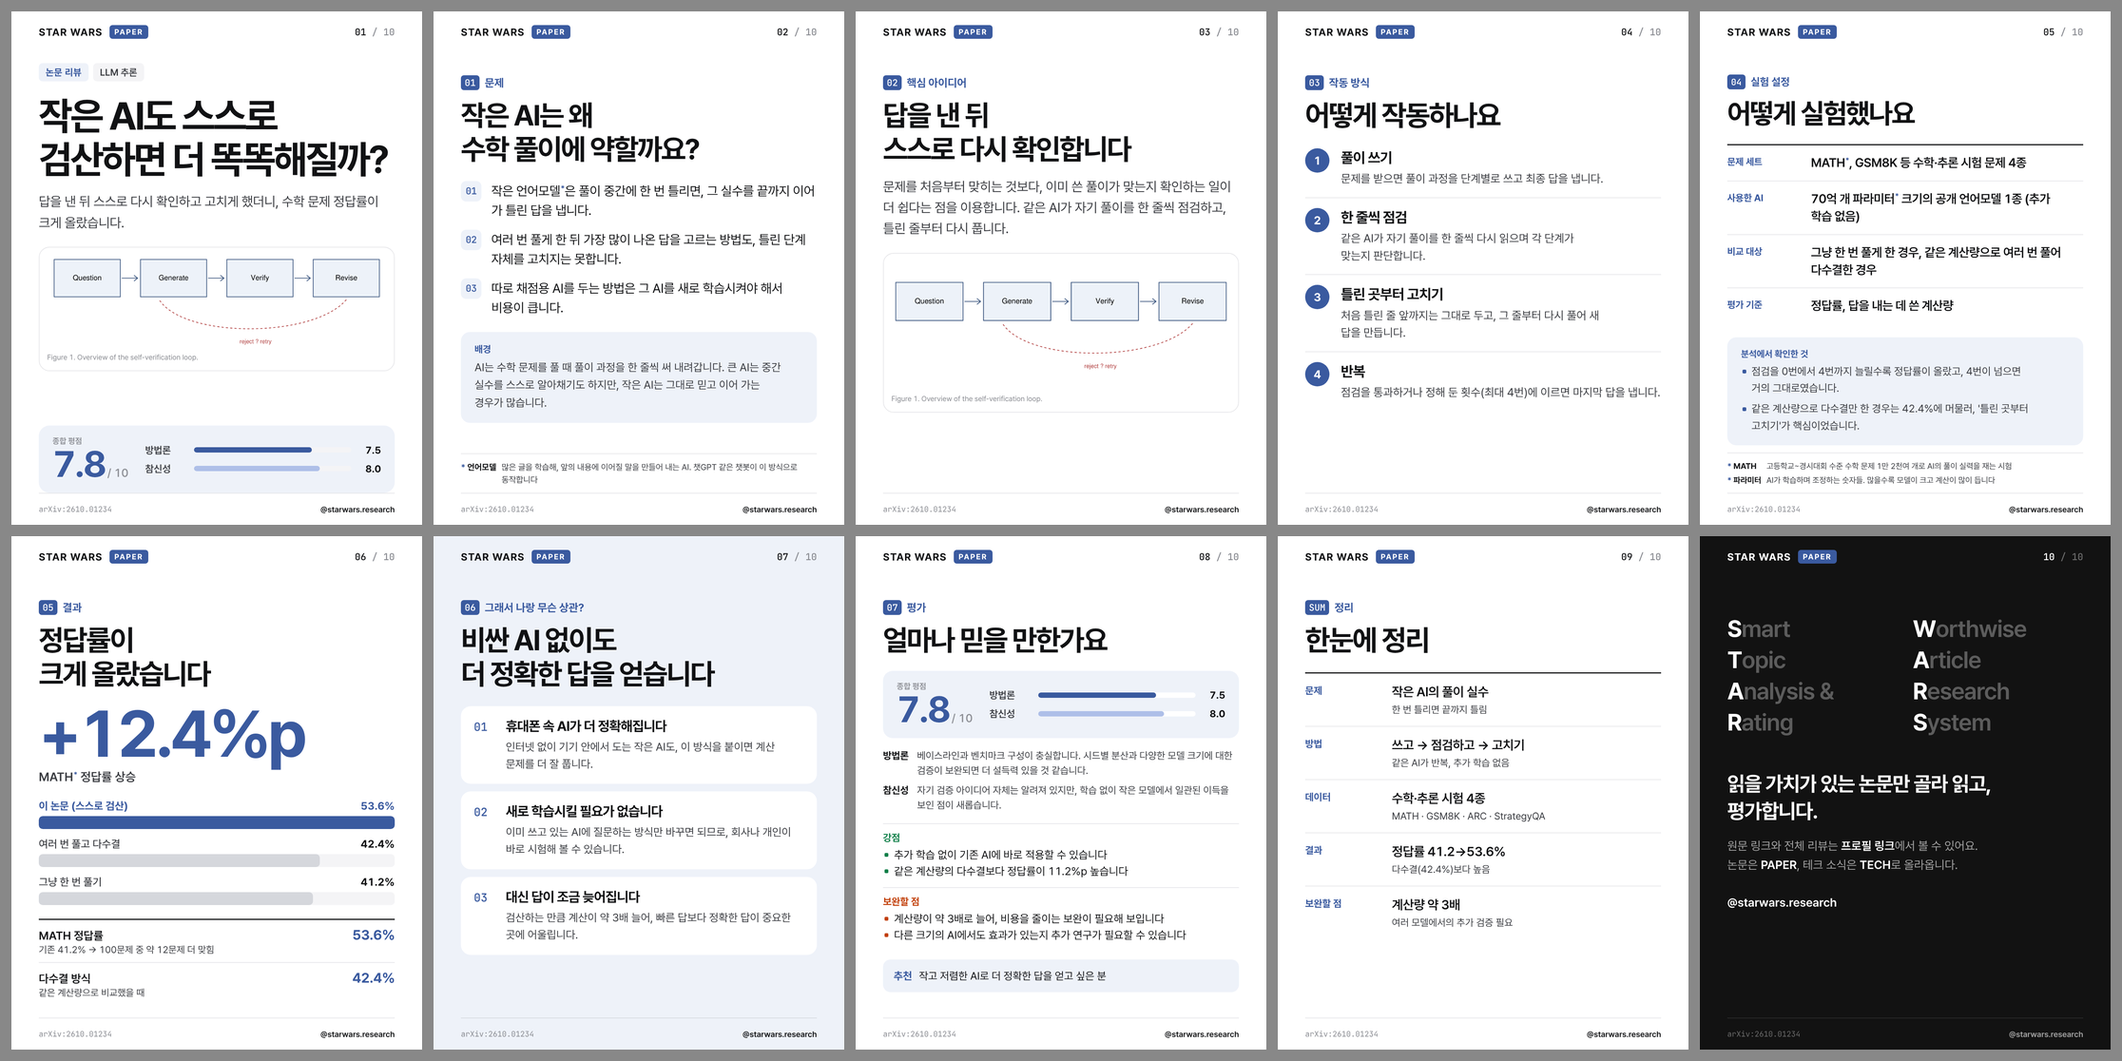
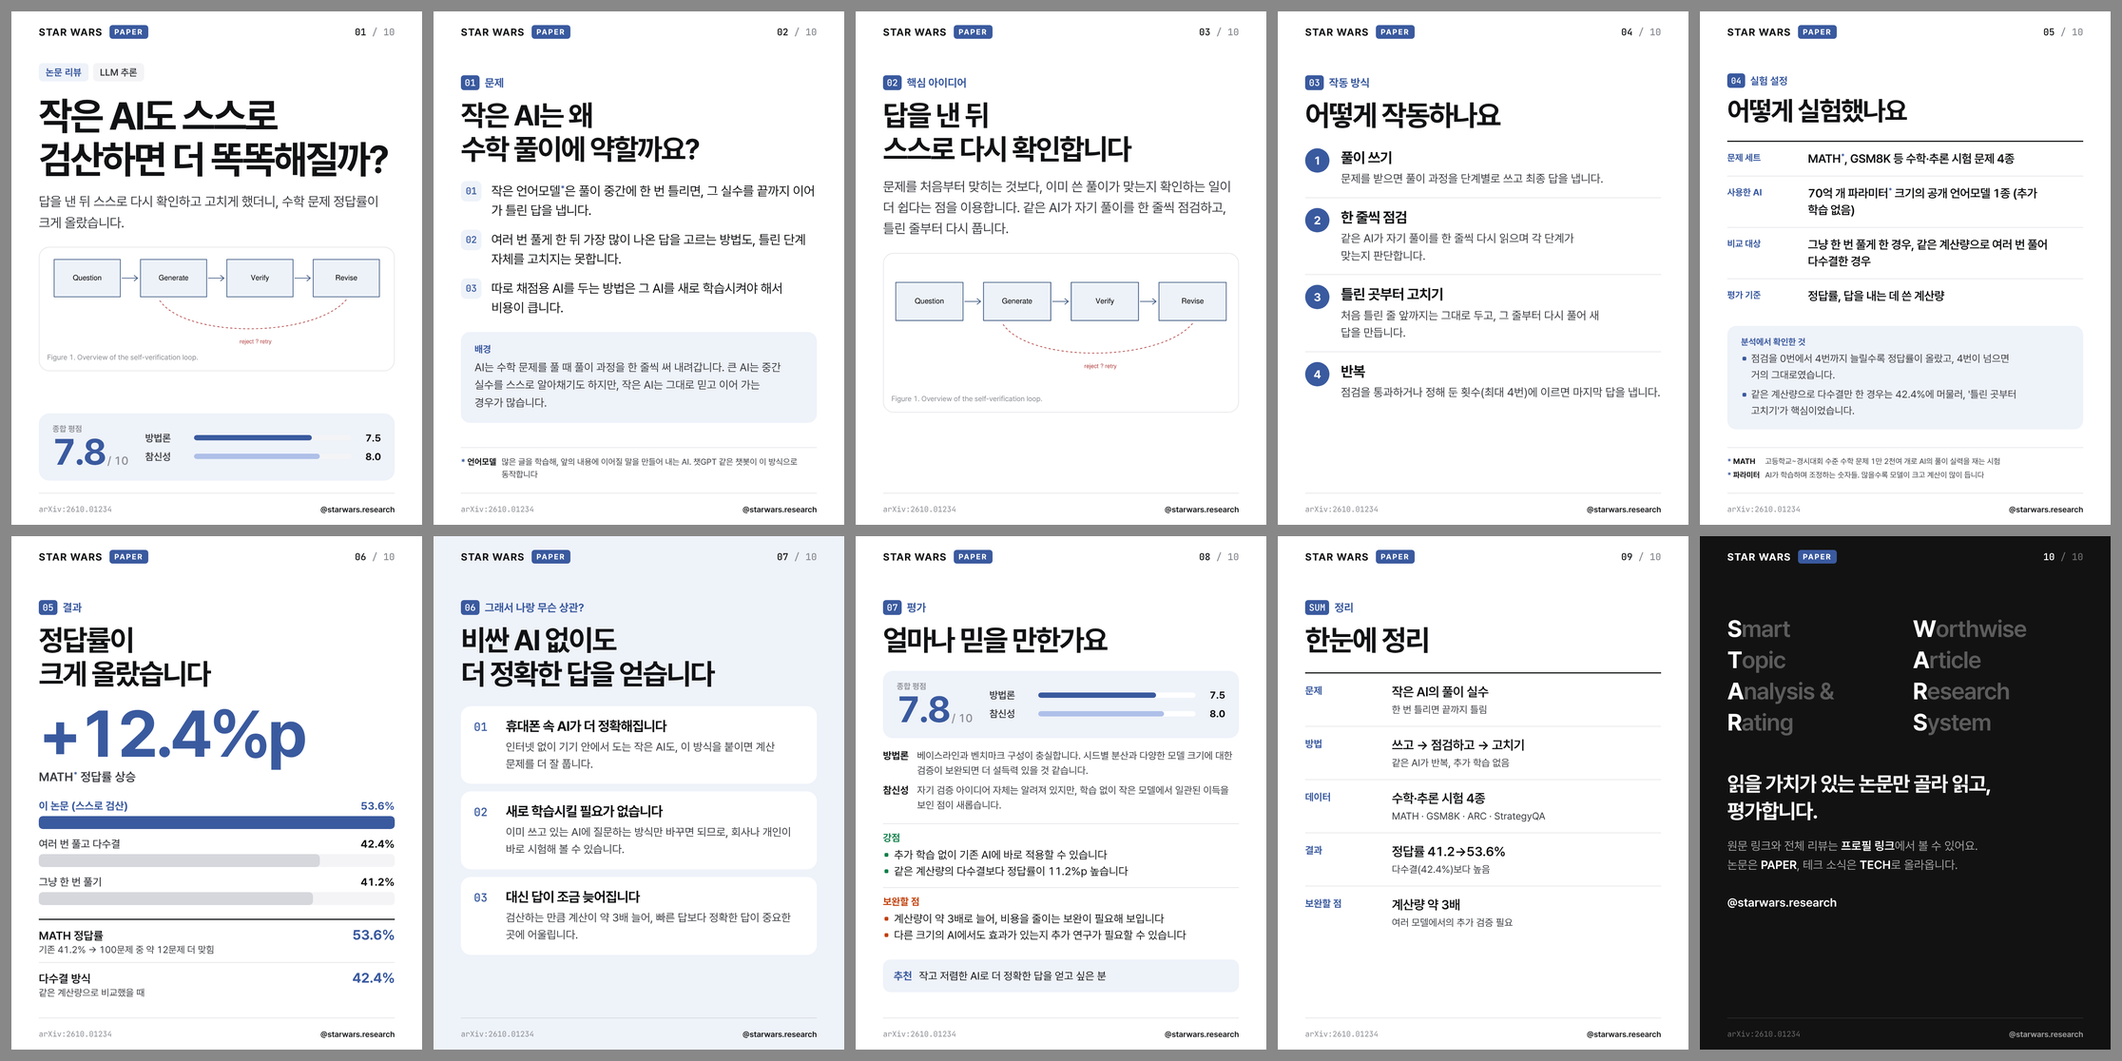
Cards keep clear of the bottom line and above the notes; closing video unfolds STAR WARS; full-screen card viewer
Claude-Session: https://claude.ai/code/session_012bj7GXVabYbePdzsSxXok8

Changed region(s): [[0.8038, 0.0609, 0.9892, 0.457], [0.0309, 0.3961, 0.1546, 0.457], [0.2164, 0.4265, 0.371, 0.457]]

diff --git a/paperagent/templates/cards/cards.html b/paperagent/templates/cards/cards.html
@@ -47,7 +47,8 @@ p, li, .v b, .v span, .item, .note { text-wrap: pretty; }
 .pg { font-family: "Mono", monospace; font-size: 25px; font-weight: 500; color: var(--ink); }
 .pg i { font-style: normal; color: var(--mute); }
 
-.main { position: relative; flex: 1; min-height: 0; display: flex; flex-direction: column; overflow: hidden; padding: calc(60px * var(--k)) 72px 0; }
+/* the bottom padding keeps every block clear of the line above the source and account */
+.main { position: relative; flex: 1; min-height: 0; display: flex; flex-direction: column; overflow: hidden; padding: calc(60px * var(--k)) 72px 32px; }
 .bottom { flex: none; height: 84px; margin: 0 72px; border-top: 2px solid var(--line); display: flex; align-items: center; justify-content: space-between;
           font-size: 21px; color: var(--mute); }
 .bottom .id { font-family: "Mono", monospace; font-size: 20px; }
@@ -201,7 +202,7 @@ h2 { flex: none; margin-top: calc(22px * var(--k)); font-size: calc(76px * var(-
 
 /* explained words: a raised * in the text, the meaning at the bottom of the slide */
 .star { font-size: .6em; vertical-align: .6em; line-height: 0; margin-left: 1px; color: var(--c); font-weight: 700; }
-.foot { flex: none; margin-top: auto; padding: calc(18px * var(--k)) 0; border-top: 2px solid var(--line); display: grid;
+.foot { flex: none; margin-top: auto; padding: 20px 0 0; border-top: 2px solid var(--line); display: grid;
         grid-template-columns: max-content minmax(0, 1fr); gap: calc(6px * var(--k)) 14px; font-size: calc(22px * var(--k)); line-height: 1.5; color: var(--body); }
 .foot b { font-weight: 700; color: var(--ink); }
 .foot b::before { content: "* "; color: var(--c); }
@@ -225,10 +226,11 @@ h2 { flex: none; margin-top: calc(22px * var(--k)); font-size: calc(76px * var(-
 /* the closing slide as a video: masked rises with a soft, fast-out ease */
 .m { display: inline-block; overflow: hidden; vertical-align: top; padding-bottom: .12em; margin-bottom: -.12em; }
 .m > b, .m > i { display: inline-block; font-style: normal; }
-.acro .m > i { font-weight: 600; }
+.unfold { display: inline-block; }
+.play .unfold { animation: unfold 1s cubic-bezier(.16, 1, .3, 1) both; animation-delay: calc(var(--d) * 1s); }
+@keyframes unfold { from { clip-path: inset(0 100% 0 0); transform: translateX(-18px); opacity: .2; } to { clip-path: inset(0 0 0 0); transform: none; opacity: 1; } }
 .play .m > b, .play .m > i { animation: rise .95s cubic-bezier(.16, 1, .3, 1) both; animation-delay: calc(var(--d) * 1s); }
 .play .fade { animation: fade-up 1s cubic-bezier(.16, 1, .3, 1) both; animation-delay: calc(var(--d) * 1s); }
-.play .band, .play .bottom { animation: fade-in .8s ease both; }
 @keyframes rise { from { transform: translateY(110%); } to { transform: none; } }
 @keyframes fade-up { from { opacity: 0; transform: translateY(26px); } to { opacity: 1; transform: none; } }
 @keyframes fade-in { from { opacity: 0; } }
@@ -238,9 +240,10 @@ h2 { flex: none; margin-top: calc(22px * var(--k)); font-size: calc(76px * var(-
 .mask-mode [data-window] { visibility: visible !important; background: #fff !important; }
 .mask-mode [data-window] * { visibility: hidden !important; }
 
-/* while measuring, figures are out and the notes sit right under the text */
+/* while measuring, figures are out and the notes/score sit at their minimum distance
+   under the text, so the fitted slide always keeps that much space above them */
 .measuring .figure { display: none; }
-.measuring .foot, .measuring .stat { margin-top: 0; }
+.measuring .foot, .measuring .stat { margin-top: 32px; }
 </style>
 </head>
 <body>
@@ -398,13 +401,14 @@ h2 { flex: none; margin-top: calc(22px * var(--k)); font-size: calc(76px * var(-
 </section>
 
 {% elif s.kind == 'outro' %}
-{# Still on the PNG; as the MP4 (.play) every word rises out of a mask in turn, then the lines below fade up. --d is each piece's start (s). #}
+{# Still on the PNG. As the MP4 (.play): S T A R W A R S stand from the first frame, the rest of each word unfolds
+   out of its letter in turn, then the claim's words rise and the lines below fade up. --d is each piece's start (s). #}
 {% set lines = theme.claim.split('\n') %}
-{% set ns = namespace(d=1.45) %}
+{% set ns = namespace(d=1.95) %}
 <section class="slide outro" data-video="outro">
   {{ band(n) }}
   <div class="acro">
-    {% for initial, rest in acronym %}<div style="grid-column: {{ 1 if loop.index <= 4 else 2 }}; grid-row: {{ loop.index if loop.index <= 4 else loop.index - 4 }}"><span class="m"><b style="--d: {{ '%.2f' % (0.2 + loop.index0 * 0.07) }}">{{ initial }}</b></span><span class="m"><i style="--d: {{ '%.2f' % (0.62 + loop.index0 * 0.07) }}">{{ rest }}</i></span></div>{% endfor %}
+    {% for initial, rest in acronym %}<div style="grid-column: {{ 1 if loop.index <= 4 else 2 }}; grid-row: {{ loop.index if loop.index <= 4 else loop.index - 4 }}"><b>{{ initial }}</b><span class="unfold" style="--d: {{ '%.2f' % (0.35 + loop.index0 * 0.16) }}">{{ rest }}</span></div>{% endfor %}
   </div>
   <p class="claim">{% for line in lines %}{% for w in line.split() %}<span class="m"><i style="--d: {{ '%.2f' % ns.d }}">{{ w }}</i></span>{% set ns.d = ns.d + 0.07 %}{% if not loop.last %} {% endif %}{% endfor %}{% if not loop.last %}<br>{% endif %}{% set ns.d = ns.d + 0.12 %}{% endfor %}</p>
   <p class="cta fade" style="--d: {{ '%.2f' % (ns.d + 0.2) }}">원문 링크와 전체 리뷰는 <b>프로필 링크</b>에서 볼 수 있어요.<br>논문은 <em>PAPER</em>, 테크 소식은 <em>TECH</em>로 올라옵니다.</p>
@@ -425,7 +429,8 @@ function fit(slide) {
   if (!main) return;
   const setK = (k) => slide.style.setProperty("--k", k);
   const bottom = () => Math.max(0, ...[...main.children].map((c) => c.offsetTop + c.offsetHeight));
-  const room = () => main.clientHeight - bottom();
+  const pad = parseFloat(getComputedStyle(main).paddingBottom) || 0;
+  const room = () => main.clientHeight - pad - bottom();
   slide.classList.add("measuring");
   let k = 1;
   setK(k);
@@ -439,8 +444,7 @@ function fit(slide) {
     while (room() - gap() < need && kk > Math.max(0.74, k - 0.16)) { kk = +(kk - 0.02).toFixed(2); setK(kk); }
     // keep clear space between the figure and what follows it (the score
     // box or the footnotes), so the two never touch or overlap
-    const after = f.nextElementSibling && f.nextElementSibling.offsetParent !== null ? 28 * kk : 0;
-    const avail = room() - gap() - after;
+    const avail = room() - gap();
     if (avail >= need) {
       slide.classList.remove("measuring");
       const img = f.querySelector("img");
@@ -465,11 +469,11 @@ function fit(slide) {
 function guard(slide, main) {
   const f = slide.querySelector(".figure");
   if (!f) return;
-  const k = +getComputedStyle(slide).getPropertyValue("--k") || 1;
   const next = f.nextElementSibling;
   const fb = f.getBoundingClientRect().bottom;
-  const limit = next ? next.getBoundingClientRect().top - 24 * k : main.getBoundingClientRect().bottom;
-  const overflow = Math.max(0, ...[...main.children].map((c) => c.offsetTop + c.offsetHeight)) - main.clientHeight;
+  const pad = parseFloat(getComputedStyle(main).paddingBottom) || 0;
+  const limit = next ? next.getBoundingClientRect().top - 32 : main.getBoundingClientRect().bottom - pad;
+  const overflow = Math.max(0, ...[...main.children].map((c) => c.offsetTop + c.offsetHeight)) - (main.clientHeight - pad);
   const cut = Math.ceil(Math.max(fb - limit, overflow, 0));
   if (!cut) return;
   const h = f.offsetHeight - cut - 2;

diff --git a/paperagent/static/app.js b/paperagent/static/app.js
@@ -21,6 +21,90 @@ document.querySelectorAll("[data-carousel]").forEach((root) => {
   update();
 });
 
+// Full-screen viewer for the card news: opens from "크게 보기" or a click on a card;
+// arrows / swipe to move, Esc or the backdrop to close. The video cards play.
+(() => {
+  const carousels = document.querySelectorAll("[data-carousel]");
+  if (!carousels.length) return;
+  const box = document.createElement("div");
+  box.className = "lightbox";
+  box.hidden = true;
+  box.setAttribute("role", "dialog");
+  box.setAttribute("aria-modal", "true");
+  box.setAttribute("aria-label", "카드뉴스 크게 보기");
+  box.innerHTML = `
+    <div class="lb-top"><span class="lb-count"></span><span class="lb-sp"></span>
+      <a class="lb-dl" download>이 장 받기</a><button type="button" class="lb-x" aria-label="닫기">✕</button></div>
+    <div class="lb-stage"></div>
+    <button type="button" class="lb-btn lb-prev" aria-label="이전 장">‹</button>
+    <button type="button" class="lb-btn lb-next" aria-label="다음 장">›</button>`;
+  document.body.appendChild(box);
+  const stage = box.querySelector(".lb-stage");
+  let items = [], at = 0, track = null, lastFocus = null;
+
+  const show = (i) => {
+    at = (i + items.length) % items.length;
+    const it = items[at];
+    stage.replaceChildren();
+    let el;
+    if (it.tagName === "VIDEO") {
+      el = document.createElement("video");
+      Object.assign(el, { src: it.currentSrc || it.src, poster: it.poster, muted: true, loop: true, playsInline: true, autoplay: true });
+      el.play().catch(() => {});
+    } else {
+      el = document.createElement("img");
+      el.src = it.currentSrc || it.src;
+      el.alt = it.alt || "";
+    }
+    stage.appendChild(el);
+    box.querySelector(".lb-count").textContent = `${at + 1} / ${items.length}${it.tagName === "VIDEO" ? " · 영상" : ""}`;
+    box.querySelector(".lb-dl").href = `${(it.currentSrc || it.src).split("?")[0]}?dl=1`;
+    box.querySelector(".lb-prev").hidden = box.querySelector(".lb-next").hidden = items.length < 2;
+  };
+  const open = (root, i) => {
+    track = root.querySelector(".slides");
+    items = [...track.children];
+    lastFocus = document.activeElement;
+    box.hidden = false;
+    document.body.classList.add("lb-open");
+    show(i);
+    box.querySelector(".lb-x").focus();
+  };
+  const close = () => {
+    box.hidden = true;
+    document.body.classList.remove("lb-open");
+    stage.replaceChildren();
+    if (track) track.scrollTo({ left: at * track.clientWidth }); // the small carousel follows
+    lastFocus?.focus();
+  };
+
+  carousels.forEach((root) => {
+    const tr = root.querySelector(".slides");
+    const current = () => Math.round(tr.scrollLeft / tr.clientWidth);
+    root.querySelector("[data-zoom]")?.addEventListener("click", () => open(root, current()));
+    [...tr.children].forEach((el, i) => { el.style.cursor = "zoom-in"; el.addEventListener("click", () => open(root, i)); });
+    root.addEventListener("keydown", (e) => { if (e.key === "f" || e.key === "F") open(root, current()); });
+  });
+  box.querySelector(".lb-x").addEventListener("click", close);
+  box.querySelector(".lb-prev").addEventListener("click", () => show(at - 1));
+  box.querySelector(".lb-next").addEventListener("click", () => show(at + 1));
+  box.addEventListener("click", (e) => { if (e.target === box || e.target === stage) close(); });
+  document.addEventListener("keydown", (e) => {
+    if (box.hidden) return;
+    if (e.key === "Escape") close();
+    else if (e.key === "ArrowLeft") show(at - 1);
+    else if (e.key === "ArrowRight") show(at + 1);
+  });
+  let x0 = null;
+  stage.addEventListener("touchstart", (e) => { x0 = e.touches[0].clientX; }, { passive: true });
+  stage.addEventListener("touchend", (e) => {
+    if (x0 === null) return;
+    const dx = e.changedTouches[0].clientX - x0;
+    if (Math.abs(dx) > 40) show(at + (dx < 0 ? 1 : -1));
+    x0 = null;
+  });
+})();
+
 // Copy caption text
 document.querySelectorAll("[data-copy]").forEach((btn) => {
   btn.addEventListener("click", async () => {

diff --git a/paperagent/static/style.css b/paperagent/static/style.css
@@ -662,3 +662,32 @@ pre.cmd code { background: none; padding: 0; color: inherit; white-space: pre; f
 .meta .maker { display: inline-flex; align-items: center; gap: 5px; color: var(--ink); font-weight: 600; }
 .meta .maker .logo-mark { flex: none; }
 @media (prefers-color-scheme: dark) { .meta .maker .logo-mark path[fill="#000000"], .meta .maker .logo-mark path[fill="#111111"], .meta .maker .logo-mark path[fill="#191919"] { fill: #e6e6e6; } }
+
+/* ---------- card news: full-screen viewer ---------- */
+.carousel .zoom-btn { position: absolute; top: 10px; right: 10px; display: inline-flex; align-items: center; gap: 6px; height: 30px; padding: 0 10px;
+                      border-radius: 8px; border: 1px solid var(--line); background: rgba(255,255,255,.92); color: #171717; font: inherit;
+                      font-size: 12.5px; font-weight: 600; cursor: pointer; box-shadow: var(--shadow); }
+.carousel .zoom-btn svg { width: 14px; height: 14px; }
+.carousel .zoom-btn:hover { background: #fff; }
+body.lb-open { overflow: hidden; }
+.lightbox { position: fixed; inset: 0; z-index: 90; background: rgba(10, 10, 12, .94); display: flex; flex-direction: column; }
+.lightbox[hidden] { display: none; }
+.lb-top { flex: none; display: flex; align-items: center; gap: 14px; padding: 12px 18px; color: #e6e6e6; font-size: 14px; }
+.lb-sp { flex: 1; }
+.lb-count { font-variant-numeric: tabular-nums; font-weight: 600; }
+.lb-dl { color: #e6e6e6; font-weight: 600; padding: 6px 12px; border: 1px solid #3a3a3f; border-radius: 8px; }
+.lb-dl:hover { color: #fff; border-color: #6a6a70; }
+.lb-x { width: 36px; height: 36px; border-radius: 8px; border: 1px solid #3a3a3f; background: none; color: #e6e6e6; font-size: 15px; cursor: pointer; }
+.lb-x:hover { color: #fff; border-color: #6a6a70; }
+.lb-stage { flex: 1; min-height: 0; display: flex; align-items: center; justify-content: center; padding: 0 72px 24px; }
+.lb-stage img, .lb-stage video { max-width: 100%; max-height: 100%; aspect-ratio: 4 / 5; object-fit: contain; border-radius: 6px; background: #000;
+                                 box-shadow: 0 20px 60px rgba(0, 0, 0, .5); }
+.lb-btn { position: absolute; top: 50%; transform: translateY(-50%); width: 48px; height: 48px; border-radius: 50%; border: 1px solid #3a3a3f;
+          background: rgba(30, 30, 34, .85); color: #fff; font-size: 26px; line-height: 1; cursor: pointer; }
+.lb-btn:hover { background: rgba(60, 60, 66, .9); }
+.lb-btn[hidden] { display: none; }
+.lb-prev { left: 14px; } .lb-next { right: 14px; }
+@media (max-width: 640px) {
+  .lb-stage { padding: 0 8px 16px; }
+  .lb-btn { width: 40px; height: 40px; font-size: 22px; top: auto; bottom: 22px; transform: none; }
+}

diff --git a/paperagent/templates/_macros.html b/paperagent/templates/_macros.html
@@ -20,6 +20,7 @@
     <div class="carousel" data-carousel>
       <div class="slides">{% for s in slides %}{% if s.mp4 %}<video src="{{ s.mp4 }}" poster="{{ s.png }}" muted loop playsinline preload="metadata" aria-label="카드 {{ s.n }} (영상)"></video>{% else %}<img src="{{ s.png }}" alt="카드 {{ s.n }}" loading="lazy">{% endif %}{% endfor %}</div>
       <button class="nav-btn prev" data-prev aria-label="이전">‹</button><button class="nav-btn next" data-next aria-label="다음">›</button>
+      <button type="button" class="zoom-btn" data-zoom aria-label="카드뉴스 크게 보기" title="크게 보기 (F)"><svg viewBox="0 0 16 16" aria-hidden="true"><path d="M2 6V2h4M10 2h4v4M14 10v4h-4M6 14H2v-4" fill="none" stroke="currentColor" stroke-width="1.6" stroke-linecap="round" stroke-linejoin="round"/></svg>크게 보기</button>
       <div class="dots"></div>
     </div>
     <div class="dl">한 장씩 받기 {% for s in slides %}<a href="{{ (s.mp4 or s.png) ~ '?dl=1' }}" class="{{ 'vid' if s.mp4 }}" title="{{ '영상 (MP4)' if s.mp4 else '이미지 (PNG)' }}">{{ s.n }}{% if s.mp4 %}▶{% endif %}</a>{% endfor %}</div>

diff --git a/tests/test_pdfs_and_cards.py b/tests/test_pdfs_and_cards.py
@@ -108,14 +108,17 @@ def test_closing_slide_video(sample_pdf, tmp_path):
     paths, clips = cardnews.capture(cardnews.build_html(paper, copy.deepcopy(demo.SAMPLE_REVIEW), figs), tmp_path / "out")
     assert list(clips) == [len(paths)] == [10]
     info = subprocess.run([video.ffmpeg_exe(), "-i", clips[10]], capture_output=True, text=True).stderr
-    assert "h264" in info and "1080x1350" in info and "yuv420p" in info and "Duration: 00:00:06" in info
+    assert "h264" in info and "1080x1350" in info and "yuv420p" in info and "Duration: 00:00:07" in info
     frames = []
     for t in ("0.1", "5.5"):
         out = tmp_path / f"f{t}.png"
         subprocess.run([video.ffmpeg_exe(), "-v", "error", "-ss", t, "-i", clips[10], "-frames:v", "1", "-y", str(out)], check=True)
         frames.append(Image.open(out).convert("L"))
     claim = [f.crop((60, 600, 1020, 900)) for f in frames]
-    assert claim[0].getextrema()[1] < 80  # the text is not there yet
+    assert claim[0].getextrema()[1] < 80  # the claim is not there yet
+    initials = frames[0].crop((72, 180, 140, 520))  # ...but S T A R stand from the first frame
+    meanings = frames[0].crop((150, 180, 500, 520))  # while their meanings have not unfolded yet
+    assert initials.getextrema()[1] > 200 and meanings.getextrema()[1] < 140
     # the last frame is the still card
     still = Image.open(paths[-1]).convert("L")
     from PIL import ImageChops, ImageStat
@@ -143,11 +146,18 @@ def test_figures_never_touch_the_footnotes(sample_pdf, tmp_path):
         page.wait_for_selector("body[data-ready='1']")
         rows = page.evaluate("""() => [...document.querySelectorAll('.slide')].map((s) => {
             const r = (e) => e && e.getBoundingClientRect(), f = s.querySelector('.figure'), m = s.querySelector('.main');
-            const next = f && f.nextElementSibling;
+            const next = f && f.nextElementSibling, line = s.querySelector('.bottom'), ft = s.querySelector('.foot');
+            const shown = m ? [...m.children].filter((c) => r(c).height > 0) : [];
+            const prev = ft && ft.previousElementSibling;
             return {gap: f && next ? r(next).top - r(f).bottom : null,
-                    spill: m ? Math.max(0, ...[...m.children].map((c) => r(c).bottom)) - r(m).bottom : 0};
+                    spill: m ? Math.max(0, ...shown.map((c) => r(c).bottom)) - r(m).bottom : 0,
+                    toLine: m && line ? r(line).top - Math.max(0, ...shown.map((c) => r(c).bottom)) : null,
+                    aboveNotes: ft && prev ? r(ft).top - r(prev).bottom : null};
         })""")
         browser.close()
     assert any(r["gap"] is not None for r in rows)
     assert all(r["gap"] is None or r["gap"] >= 18 for r in rows), rows
     assert all(r["spill"] <= 1 for r in rows), rows
+    # nothing touches the line above the source/account, and the notes keep clear of what is above them
+    assert all(r["toLine"] is None or r["toLine"] >= 28 for r in rows), rows
+    assert all(r["aboveNotes"] is None or r["aboveNotes"] >= 28 for r in rows), rows

diff --git a/tests/test_tech.py b/tests/test_tech.py
@@ -178,7 +178,7 @@ def test_tech_stage_end_to_end(fresh_db):
     assert "터미널 안에서 일하는 AI 코딩 도우미" in html and "1.3만" in html and 'class="sbadge s-github"' in html
     assert 'class="mi maker"><svg class="logo-mark"' in html and 'aria-label="Meta"' in html  # facebookresearch -> Meta's logo
     page = c.get(f"/tech/{done['id']}").get_data(as_text=True)
-    assert "그래서 나랑 무슨 상관?" in page and "cargo install termpilot" in page and "#IT #테크 #개발자 #오픈소스 #코딩" in page
+    assert "그래서 나랑 무슨 상관?" in page and "cargo install termpilot" in page and "data-zoom" in page  # full-screen viewer and "#IT #테크 #개발자 #오픈소스 #코딩" in page
     assert c.get(f"/files/tech/{done['id']}/card/1").status_code == 200
     z = zipfile.ZipFile(io.BytesIO(c.get(f"/files/tech/{done['id']}/cards.zip").data))
     names = z.namelist()

diff --git a/paperagent/video.py b/paperagent/video.py
@@ -1,7 +1,8 @@
 """Video cards.
 
 * The closing card of every carousel: the same animation each time - the
-  words rise into place one after another, then the lines below fade up.
+  letters S T A R W A R S stand from the first frame, the meaning of each
+  unfolds out of its letter, then the claim rises and the lines below fade up.
 * A TECH post's demo slide, only when the project's source has a demo clip
   that shows what the post is about: the card stays still and the clip plays
   in the picture window. Every other slide is a still image.
@@ -22,7 +23,7 @@ from . import config
 
 log = logging.getLogger(__name__)
 FPS = 30
-OUTRO_SECONDS = 6.0
+OUTRO_SECONDS = 7.0
 
 
 def ffmpeg_exe():
